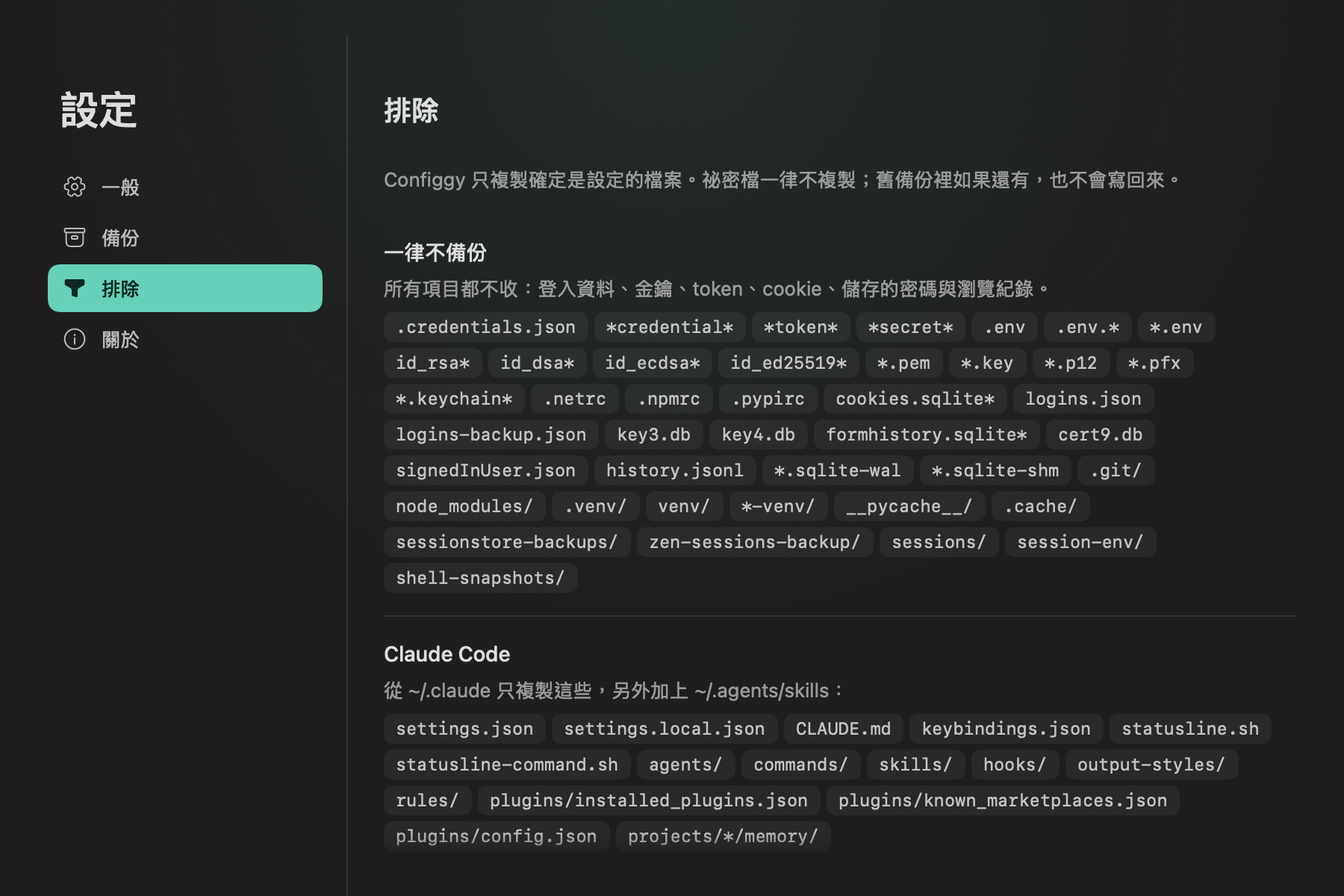
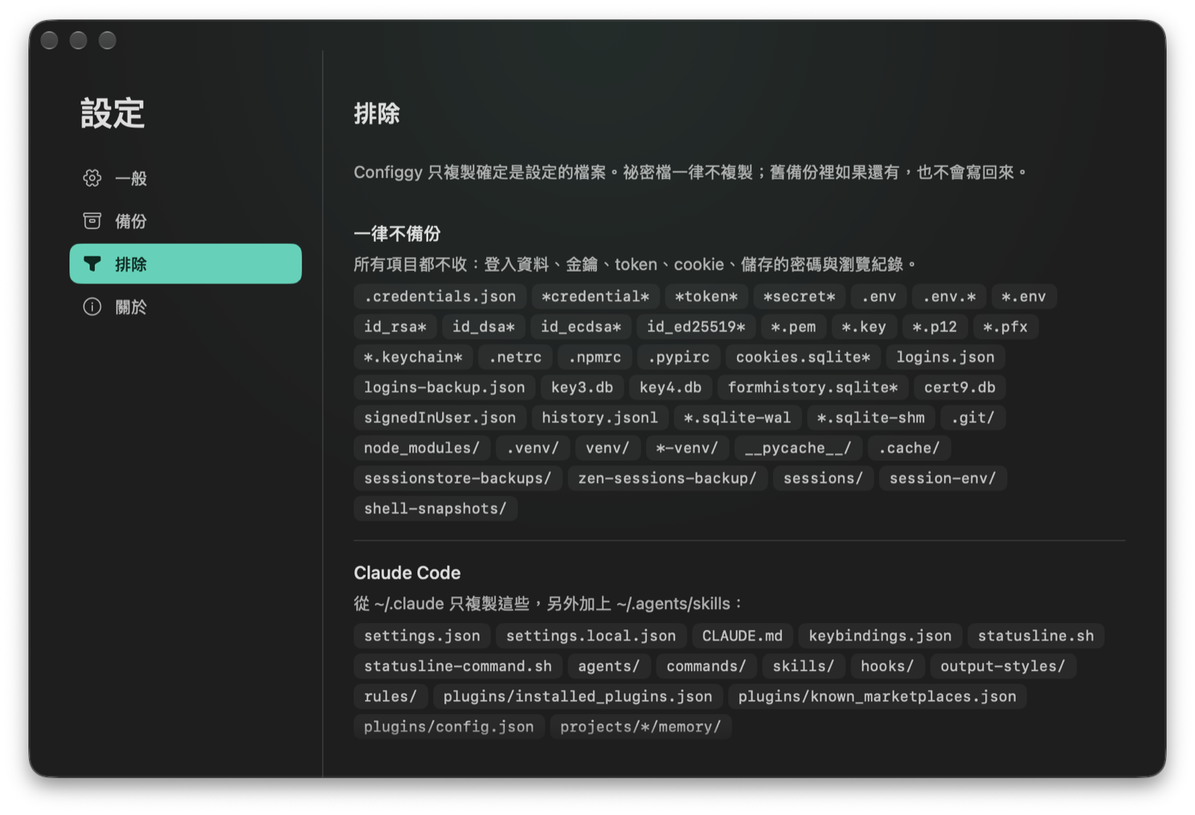
官網與 README 截圖重拍：真實視窗與像真的資料
- 新增 scripts/screenshots.sh：在假家目錄放一組像真的資料，讓 App 真的打開視窗，用 screencapture 連同外框與陰影拍下
- 官網首頁的 CSS 假視窗（舊介面）換成真的主畫面截圖，保留深淺色切換
- 截圖區改為主畫面、還原預覽、排除設定、第一次使用；README 中英文各一套
- 修正官網英文說明裡未跳脫的撇號，它讓整段翻譯腳本失效、切換英文無作用
- 功能區塊與 llms.txt 改寫成 1.0 的內容

Changed region(s): [[0.0, 0.0, 1.0, 1.0], [0.2812, 0.1868, 0.875, 0.2179], [0.2812, 0.0934, 0.3438, 0.1557]]

diff --git a/docs/index.html b/docs/index.html
@@ -194,6 +194,9 @@
   .win.light .row .who small{color:#71747c}
   .win.light .pill{border-color:rgba(0,0,0,.16);color:#4d5058}
   .win.light .pill.rm{color:#8b8e96}
+  .shot-win{background:none;border:0;box-shadow:none;overflow:visible;border-radius:0}
+  .shot-win img{display:block;width:100%;height:auto}
+  .shot-win .l{display:none}.shot-win.light .d{display:none}.shot-win.light .l{display:block}
   .demo-ctrl{display:flex;align-items:center;justify-content:center;gap:16px;margin-top:22px;flex-wrap:wrap}
   .toggle{display:inline-flex;align-items:center;gap:10px;font-weight:600;cursor:pointer;user-select:none;font-size:14px}
   .switch{width:50px;height:28px;border-radius:999px;background:rgba(255,255,255,.16);position:relative;transition:.25s;flex:none}
@@ -314,57 +317,13 @@
 
     <!-- INTERACTIVE DEMO -->
     <div class="demo-stage">
-      <div class="win" id="win">
-        <div class="titlebar"><i></i><i></i><i></i><span class="t">Configgy</span><span class="gear">⚙</span></div>
-        <div class="tabs">
-          <div class="capsule">
-            <button class="on" data-pane="prot" data-i="demo.tab1">已備份保護</button>
-            <button data-pane="sugg" data-i="demo.tab2">建議加入</button>
-          </div>
-        </div>
-        <div class="rows">
-          <div class="pane on" id="pane-prot">
-            <div class="row" data-row>
-              <span class="ico">✳</span>
-              <span class="who"><b>Claude Code</b><small data-i="demo.r1s">最後備份 今天 09:12 · 8 份快照</small></span>
-              <span class="acts">
-                <button class="pill go" data-backup data-i="demo.backup">備份</button>
-                <button class="pill re" data-i="demo.restore">還原</button>
-                <button class="pill rm" data-i="demo.remove">移除</button>
-              </span>
-              <span class="bar"></span>
-            </div>
-            <div class="row" data-row>
-              <span class="ico">🌀</span>
-              <span class="who"><b>Zen Browser</b><small data-i="demo.r2s">關閉 Zen 時自動備份 · 10 份快照</small></span>
-              <span class="acts">
-                <button class="pill go" data-backup data-i="demo.backup">備份</button>
-                <button class="pill re" data-i="demo.restore">還原</button>
-                <button class="pill rm" data-i="demo.remove">移除</button>
-              </span>
-              <span class="bar"></span>
-            </div>
-            <div class="row" data-row>
-              <span class="ico">🐚</span>
-              <span class="who"><b>Shell dotfiles</b><small data-i="demo.r3s">最後備份 昨天 23:40 · 3 份快照</small></span>
-              <span class="acts">
-                <button class="pill go" data-backup data-i="demo.backup">備份</button>
-                <button class="pill re" data-i="demo.restore">還原</button>
-                <button class="pill rm" data-i="demo.remove">移除</button>
-              </span>
-              <span class="bar"></span>
-            </div>
-          </div>
-          <div class="pane" id="pane-sugg">
-            <div class="row"><span class="ico">⌨</span><span class="who"><b>Karabiner-Elements</b><small data-i="demo.g1">改鍵設定 · 沒有自己的雲端同步</small></span><span class="acts"><button class="pill add" data-i="demo.add">加入</button></span></div>
-            <div class="row"><span class="ico">🔧</span><span class="who"><b>git · ~/.gitconfig</b><small data-i="demo.g2">全域 git 設定與 aliases</small></span><span class="acts"><button class="pill add" data-i="demo.add">加入</button></span></div>
-            <div class="row"><span class="ico">🖥</span><span class="who"><b>~/.ssh/config</b><small data-i="demo.g3">只收設定檔，私鑰不碰</small></span><span class="acts"><button class="pill add" data-i="demo.add">加入</button></span></div>
-          </div>
-        </div>
+      <div class="win shot-win" id="win">
+        <img class="d" src="shots/main-dark.png" alt="Configgy 主視窗（深色）：最上面一句話告訴你設定都已備份，下面列出每個項目上次備份的時間" width="1600" height="1481">
+        <img class="l" src="shots/main-light.png" alt="Configgy 主視窗（淺色）" width="1600" height="1481" loading="lazy">
       </div>
       <div class="demo-ctrl">
         <label class="toggle" id="theme"><span class="switch"></span><span data-i="demo.theme">淺色模式</span></label>
-        <span class="demo-hint" data-i="demo.hint">← 撥一下切主題，或點「備份」看流光跑一輪</span>
+        <span class="demo-hint" data-i="demo.hint">← 撥一下看淺色模式</span>
       </div>
     </div>
   </div>
@@ -394,7 +353,7 @@
       <div class="card"><span class="emoji">✳</span><h3 data-i="feat.c2h">Claude Code 設定</h3><p data-i="feat.c2p">快照 <code>~/.claude</code> 與 <code>~/.agents/skills</code>；還原時連 plugins 一起重裝，新機器接得回原本的手感。</p></div>
       <div class="card"><span class="emoji">🔍</span><h3 data-i="feat.c3h">自動探索建議</h3><p data-i="feat.c3p">掃出這台 Mac 上沒有雲端同步的設定：shell、git、<code>~/.ssh/config</code>、Zed、VS Code、終端機、Karabiner、Hammerspoon…點加入就收編。</p></div>
       <div class="card"><span class="emoji">↩</span><h3 data-i="feat.c4h">預覽、回滾、再納入</h3><p data-i="feat.c4p">還原先看 diff；每個目標都有歷史可挑。開啟時掃一遍備份資料夾，另一台 Mac 備過的目標會自己回到清單上。</p></div>
-      <div class="card"><span class="emoji">🎛</span><h3 data-i="feat.c5h">一個視窗就夠</h3><p data-i="feat.c5p">膠囊 tab 切兩份清單，動作就在列上；設定是視窗內的一頁，不是層層選單。淺色深色都是一等公民。</p></div>
+      <div class="card"><span class="emoji">🎛</span><h3 data-i="feat.c5h">一眼看懂</h3><p data-i="feat.c5p">打開就有一句話告訴你設定有沒有備份好、要不要做什麼；每個項目寫出上次備份時間。支援六種語言，淺色深色都清楚。</p></div>
       <div class="card"><span class="emoji">⌨</span><h3 data-i="feat.c6h">同一顆 binary 就是 CLI</h3><p data-i="feat.c6p"><code>Configgy backup</code>、<code>list</code>、<code>restore</code>、<code>target-add</code>…全部跑得動，排程或遠端都行。</p></div>
     </div>
   </div>
@@ -406,19 +365,19 @@
     <h2 data-i="shot.h2">長這樣</h2>
     <div class="shots">
       <div class="shot">
-        <img src="shots/main-dark.png" alt="主視窗：每個項目標示已保護、需要注意或失敗，附上最後備份時間與來源 Mac，右側是備份與還原" loading="lazy" width="1520" height="1200">
+        <img src="shots/main-dark.png" alt="主視窗：最上面一句話說明設定是否都已備份，下面列出每個項目上次備份的時間與可還原的份數" loading="lazy" width="1600" height="1481">
         <p data-i="shot.c1"><b>一眼看出安不安全</b> — 最上面一句話告訴你設定有沒有備份好、要不要做什麼；每個項目寫出上次什麼時候備份、有幾份可以還原。</p>
       </div>
       <div class="shot">
-        <img src="shots/main-light.png" alt="淺色模式下的同一個視窗" loading="lazy" width="1520" height="1200">
-        <p data-i="shot.c4"><b>淺色模式</b> — 同一個視窗的淺色版本，跟著系統外觀切換。</p>
+        <img src="shots/restore-light.png" alt="還原預覽：列出會被取代與新增的每個檔案，確認後才還原" loading="lazy" width="1600" height="1569">
+        <p data-i="shot.c4"><b>還原前先看清楚</b> — 列出每個會被取代或新增的檔案，目前的版本會先另存一份，確認後才寫入。</p>
       </div>
       <div class="shot">
-        <img src="shots/exclusions-dark.png" alt="設定的排除頁：一律不備份的檔案，以及每個項目實際複製的內容" loading="lazy" width="1800" height="1200">
+        <img src="shots/exclusions-dark.png" alt="設定的排除頁：一律不備份的檔案，以及每個項目實際複製的內容" loading="lazy" width="1600" height="1092">
         <p data-i="shot.c2"><b>收什麼、不收什麼</b> — 設定裡列出一律不備份的祕密檔，以及每個項目實際複製的檔案，一目了然。</p>
       </div>
       <div class="shot">
-        <img src="shots/onboarding-dark.png" alt="第一次使用導覽：選備份資料夾、選要保護的項目" loading="lazy" width="1200" height="1120">
+        <img src="shots/onboarding-light.png" alt="第一次使用導覽：選備份資料夾、選要保護的項目" loading="lazy" width="1600" height="1501">
         <p data-i="shot.c3"><b>第一次使用</b> — 選好備份資料夾、勾選要保護的設定，一分鐘內開始。</p>
       </div>
     </div>
@@ -496,7 +455,7 @@ const I18N = {
     "demo.r2s":"關閉 Zen 時自動備份 · 10 份快照",
     "demo.r3s":"最後備份 昨天 23:40 · 3 份快照",
     "demo.g1":"改鍵設定 · 沒有自己的雲端同步","demo.g2":"全域 git 設定與 aliases","demo.g3":"只收設定檔，私鑰不碰",
-    "demo.theme":"淺色模式","demo.hint":"← 撥一下切主題，或點「備份」看流光跑一輪",
+    "demo.theme":"淺色模式","demo.hint":"← 撥一下看淺色模式",
     "how.eyebrow":"運作原理","how.h2":"一個目標，就是一組路徑",
     "how.lead":"Configgy 只有一個模型：把一組路徑存成帶日期的 zip、留著歷史、還原前先給你看 diff。Zen、Claude Code、你自己加的資料夾，走的都是同一條路。",
     "how.s1h":"選好目標","how.s1p":"預設只開 Claude Code。Zen 和其他都是「建議」，你點<b>加入</b>才開始版本化——這台沒裝 Zen 也照常跑。",
@@ -509,13 +468,13 @@ const I18N = {
     "feat.c2h":"Claude Code 設定","feat.c2p":'快照 <code>~/.claude</code> 與 <code>~/.agents/skills</code>；還原時連 plugins 一起重裝，新機器接得回原本的手感。',
     "feat.c3h":"自動探索建議","feat.c3p":'掃出這台 Mac 上沒有雲端同步的設定：shell、git、<code>~/.ssh/config</code>、Zed、VS Code、終端機、Karabiner、Hammerspoon…點加入就收編。',
     "feat.c4h":"預覽、回滾、再納入","feat.c4p":"還原先看 diff；每個目標都有歷史可挑。開啟時掃一遍備份資料夾，另一台 Mac 備過的目標會自己回到清單上。",
-    "feat.c5h":"一個視窗就夠","feat.c5p":"膠囊 tab 切兩份清單，動作就在列上；設定是視窗內的一頁，不是層層選單。淺色深色都是一等公民。",
+    "feat.c5h":"一眼看懂","feat.c5p":"打開就有一句話告訴你設定有沒有備份好、要不要做什麼；每個項目寫出上次備份時間。支援六種語言，淺色深色都清楚。",
     "feat.c6h":"同一顆 binary 就是 CLI","feat.c6p":'<code>Configgy backup</code>、<code>list</code>、<code>restore</code>、<code>target-add</code>…全部跑得動，排程或遠端都行。',
     "shot.eyebrow":"畫面","shot.h2":"長這樣",
     "shot.c1":'<b>一眼看出安不安全</b> — 最上面一句話告訴你設定有沒有備份好、要不要做什麼；每個項目寫出上次什麼時候備份、有幾份可以還原。',
     "shot.c2":'<b>收什麼、不收什麼</b> — 設定裡列出一律不備份的祕密檔，以及每個項目實際複製的檔案，一目了然。',
     "shot.c3":'<b>第一次使用</b> — 選好備份資料夾、勾選要保護的設定，一分鐘內開始。',
-    "shot.c4":'<b>淺色模式</b> — 同一個視窗的淺色版本，跟著系統外觀切換。',
+    "shot.c4":'<b>還原前先看清楚</b> — 列出每個會被取代或新增的檔案，目前的版本會先另存一份，確認後才寫入。',
     "inst.eyebrow":"安裝","inst.h2":"下載 zip，拖進「應用程式」",
     "inst.lead":"跟著四個步驟做，大約一分鐘。第三步會用到「終端機」，不用怕，複製貼上就好。","inst.s1":"按<a href=\"https://github.com/rocavence/Configgy-app/releases/latest\" target=\"_blank\" rel=\"noopener\" style=\"color:var(--ink);text-decoration:underline\">這裡的「下載最新版」</a>，從 GitHub 下載 <b>Configgy</b> 的 <b>.zip</b> 檔。","inst.s2":"到「下載項目」資料夾雙擊 zip 解壓縮，把 <b>Configgy</b> 拖進「應用程式」資料夾。","inst.s3":"打開「終端機」：按 <kbd>⌘</kbd> + <kbd>空白鍵</kbd> 叫出 Spotlight，輸入「<b>終端機</b>」（英文系統輸入 Terminal），按 <kbd>Return</kbd>。","inst.s4":"按下面黑色框右上角的「<b>複製</b>」，回到終端機按 <kbd>⌘</kbd> + <kbd>V</kbd> 貼上，再按 <kbd>Return</kbd>。Configgy 就會打開，之後從「應用程式」直接開就好。","inst.copy":"複製","inst.why":"<b>蛤？這是在幹嘛？</b>Configgy 是免費的自簽 app，沒有經過 Apple 公證。我也不是靠開發 App 維生，純粹是做自己覺得好用、好看的小東西，繳不起 Apple 每年的開發者規費⋯⋯所以 macOS 會擋下第一次開啟。這行指令只是拿掉下載時被加上的「隔離」標記，再幫你打開 Configgy，不會改動其他東西，只需要做一次。",
     "inst.cmt":"清除 quarantine 後直接打開","inst.btn":"下載最新版","inst.src":"自己 build",
@@ -537,7 +496,7 @@ const I18N = {
     "demo.r2s":"Backs up when you quit Zen · 10 snapshots",
     "demo.r3s":"Last backup yesterday 23:40 · 3 snapshots",
     "demo.g1":"Key remapping · no cloud sync of its own","demo.g2":"Global git settings and aliases","demo.g3":"The config file only — never the keys",
-    "demo.theme":"Light mode","demo.hint":"← Flip the theme, or hit Back Up to watch it run",
+    "demo.theme":"Light mode","demo.hint":"← Flip to see light mode",
     "how.eyebrow":"How it works","how.h2":"A target is just a set of paths",
     "how.lead":"Configgy has one model: take a set of paths, version them as dated zips, keep the history, and show you the diff before a restore. Zen, Claude Code, and folders you add all ride the same contract.",
     "how.s1h":"Pick your targets","how.s1p":"Only Claude is on out of the box. Zen and everything else are <b>suggestions</b> you adopt — the app runs fine on a Mac with no Zen at all.",
@@ -550,13 +509,13 @@ const I18N = {
     "feat.c2h":"Claude Code config","feat.c2p":'Snapshots <code>~/.claude</code> and <code>~/.agents/skills</code>; the restore reinstalls plugins, so a new Mac feels like the old one.',
     "feat.c3h":"Discovery suggestions","feat.c3p":'Finds config on this Mac with no cloud sync of its own — shell, git, <code>~/.ssh/config</code>, Zed, VS Code, terminals, Karabiner, Hammerspoon — and offers it up.',
     "feat.c4h":"Preview, roll back, re-adopt","feat.c4p":"Restores show their diff; every target keeps a history. On launch it scans the backup folder, so targets backed up on another Mac reappear ready to restore.",
-    "feat.c5h":"One window is enough","feat.c5p":"A capsule tab switches two lists, actions sit inline on the row, and settings is a page in the window rather than a deep menu. Light and dark are both first-class.",
+    "feat.c5h":"Clear at a glance","feat.c5p":"One sentence at the top says whether your settings are backed up and what to do if not; each item shows when it was last backed up. Six languages, and readable in light and dark.",
     "feat.c6h":"The binary is also the CLI","feat.c6p":'<code>Configgy backup</code>, <code>list</code>, <code>restore</code>, <code>target-add</code> — all headless, ready for cron or SSH.',
     "shot.eyebrow":"Screenshots","shot.h2":"What it looks like",
     "shot.c1":'<b>Safe at a glance</b> — each target says Protected, Needs Attention or Failed, and why; times read like "Today 00:15", with the Mac they came from.',
     "shot.c2":'<b>What goes in, what never does</b> — Settings lists the secret files that are never backed up, and exactly what each target copies.',
-    "shot.c3":'<b>First run</b> — pick the backup folder, tick what to protect, and you're set in a minute.',
-    "shot.c4":'<b>Light mode</b> — the same window in light, following the system appearance.',
+    "shot.c3":'<b>First run</b> — pick the backup folder, tick what to protect, and you\'re set in a minute.',
+    "shot.c4":'<b>See it before you restore</b> — every file that will be replaced or added is listed, and the current versions are saved first.',
     "inst.eyebrow":"Install","inst.h2":"Grab the zip, drag it to Applications",
     "inst.lead":"Four steps, about a minute. Step 3 uses Terminal — don't worry, it's just copy and paste.","inst.s1":"Click <a href=\"https://github.com/rocavence/Configgy-app/releases/latest\" target=\"_blank\" rel=\"noopener\" style=\"color:var(--ink);text-decoration:underline\"><b>Download latest</b></a> and download the <b>.zip</b> file from GitHub.","inst.s2":"Open your Downloads folder, double-click the zip to unzip it, and drag <b>Configgy</b> into the Applications folder.","inst.s3":"Open <b>Terminal</b>: press <kbd>⌘</kbd> + <kbd>Space</kbd> for Spotlight, type <b>Terminal</b>, and press <kbd>Return</kbd>.","inst.s4":"Click <b>Copy</b> at the top right of the black box below, go back to Terminal, press <kbd>⌘</kbd> + <kbd>V</kbd> to paste, then press <kbd>Return</kbd>. Configgy opens; after that, open it from Applications as usual.","inst.copy":"Copy","inst.why":"<b>Wait, what is this?</b> Configgy is a free, self-signed app that isn't notarized by Apple. I don't make apps for a living; I just build small things I find useful and good-looking, and Apple's yearly developer fee isn't in the budget… So macOS blocks the first launch. This line only removes the quarantine flag added when you downloaded it, then opens Configgy. It changes nothing else, and you only need to do it once.",
     "inst.cmt":"clear quarantine, then open","inst.btn":"Download latest","inst.src":"Build from source",

diff --git a/Configgy/App/Screenshots.swift b/Configgy/App/Screenshots.swift
@@ -1,0 +1,152 @@
+#if DEBUG
+import AppKit
+import SwiftUI
+
+/// Website screenshots, driven by `scripts/screenshots.sh`. Builds a believable
+/// fake home (two Macs, everything protected, a real change to preview), opens
+/// each window for real, and asks the script — which has Screen Recording
+/// access — to capture it with its frame and shadow. Nothing real is touched.
+@MainActor
+enum Screenshots {
+    private static let fm = FileManager.default
+    private static var root: String { ProcessInfo.processInfo.environment["CONFIGGY_HOME"]! }
+    private static var home: String { root + "/home" }
+    private static var cloud: String { home + "/Dropbox/Apps/Configgy" }
+    private static var requests: String { ProcessInfo.processInfo.environment["CONFIGGY_SHOTS"]! }
+    private static let host = "MacBook-Pro"
+    private static var context: Context { Context(home: home, base: cloud, host: host) }
+
+    static func run() {
+        Task {
+            do {
+                try makeHome()
+                let model = AppModel(context: context)
+                model.refresh()
+                try await Task.sleep(for: .seconds(1))
+
+                let main = MainWindow(model: model)
+                main.nsWindow.appearance = NSAppearance(named: .darkAqua)
+                main.nsWindow.setContentSize(NSSize(width: 760, height: 700))
+                main.show(activate: true)
+                try await capture(main.nsWindow, "main-dark")
+                main.nsWindow.appearance = NSAppearance(named: .aqua)
+                try await capture(main.nsWindow, "main-light")
+                main.close()
+
+                let claude = ClaudeTarget(context: context, base: cloud, keep: 10)
+                let restore = panel(RestoreSheet(model: model, target: claude, initial: claude.store.newest()) {}, light: true)
+                try await Task.sleep(for: .seconds(2))
+                try await capture(restore, "restore-light")
+                restore.close()
+
+                let onboarding = OnboardingWindow(model: model)
+                onboarding.show(activate: true)
+                onboarding.nsWindow?.appearance = NSAppearance(named: .aqua)
+                if let window = onboarding.nsWindow { try await capture(window, "onboarding-light") }
+                onboarding.close()
+
+                let settings = SettingsWindow(model: model)
+                settings.nsWindow.appearance = NSAppearance(named: .darkAqua)
+                settings.show(.exclusions, activate: true)
+                try await capture(settings.nsWindow, "exclusions-dark")
+                settings.close()
+                print("SCREENSHOTS OK")
+            } catch {
+                print("SCREENSHOTS FAILED \(error.localizedDescription)")
+            }
+            exit(0)
+        }
+    }
+
+    /// A sheet's content in a plain window, so it can be shot on its own.
+    private static func panel<V: View>(_ view: V, light: Bool) -> NSWindow {
+        let window = NSWindow(contentRect: .zero, styleMask: [.titled, .closable, .fullSizeContentView], backing: .buffered, defer: false)
+        window.titleVisibility = .hidden
+        window.titlebarAppearsTransparent = true
+        window.isReleasedWhenClosed = false
+        window.appearance = NSAppearance(named: light ? .aqua : .darkAqua)
+        window.contentView = NSHostingView(rootView: view.padding(.top, Spacing.s16).background(Palette.background))
+        window.setContentSize(window.contentView!.fittingSize)
+        window.center()
+        window.makeKeyAndOrderFront(nil)
+        NSApp.activate()
+        return window
+    }
+
+    /// Asks the script to capture `window`, then waits for the file.
+    private static func capture(_ window: NSWindow, _ name: String) async throws {
+        window.center()
+        window.makeKeyAndOrderFront(nil)
+        NSApp.activate()
+        try await Task.sleep(for: .milliseconds(1200))
+        fm.createFile(atPath: requests + "/\(name).request", contents: Data("\(window.windowNumber)".utf8))
+        for _ in 0..<100 {
+            if fm.fileExists(atPath: requests + "/\(name).png") { return }
+            try await Task.sleep(for: .milliseconds(100))
+        }
+        print("no capture for \(name)")
+    }
+
+    private static func makeHome() throws {
+        try? fm.removeItem(atPath: root)
+        let claude = home + "/.claude"
+        let files: [String: String] = [
+            claude + "/settings.json": "{\"theme\":\"dark\",\"model\":\"opus\"}",
+            claude + "/CLAUDE.md": "# Working notes",
+            claude + "/agents/reviewer.md": "reviewer",
+            claude + "/commands/ship.md": "ship",
+            claude + "/skills/release/SKILL.md": "release",
+            claude + "/skills/review/SKILL.md": "review",
+            claude + "/hooks/format.sh": "format",
+            claude + "/agents/planner.md": "planner",
+            claude + "/projects/site/memory/notes.md": "memory",
+            home + "/.zshrc": "export EDITOR=zed",
+            home + "/.gitconfig": "[user]\n\tname = Roca",
+            home + "/Library/Application Support/zen/installs.ini": "[Install]\nDefault=Profiles/abc.default\n",
+            home + "/Library/Application Support/zen/Profiles/abc.default/prefs.js": "user_pref(\"a\", 1);",
+        ]
+        for (path, text) in files {
+            try fm.createDirectory(atPath: (path as NSString).deletingLastPathComponent, withIntermediateDirectories: true)
+            fm.createFile(atPath: path, contents: Data(text.utf8))
+        }
+        var settings = ConfiggySettings()
+        settings.backupBase = cloud
+        settings.zenEnabled = true
+        settings.onboarded = true
+        settings.save(home)
+        TargetCatalog.save([
+            TargetCatalog.suggestions.first { $0.def.id == "shell" }!.def,
+            TargetCatalog.suggestions.first { $0.def.id == "git" }!.def,
+        ], home: home)
+
+        // Older history from both Macs, then a real Claude backup, then a change to preview.
+        let now = Date()
+        func seed(_ dir: String, _ prefix: String, _ host: String, _ days: [Double], files: Int) {
+            try? fm.createDirectory(atPath: dir, withIntermediateDirectories: true)
+            for d in days {
+                let date = now.addingTimeInterval(-d * 86_400)
+                let ts = SnapshotStore.stamp(date)
+                let path = dir + "/\(prefix)\(host)-\(ts).zip"
+                fm.createFile(atPath: path, contents: Data())
+                let meta = SnapshotMeta(host: host, ts: ts, iso: ISO8601DateFormatter().string(from: date), hash: UUID().uuidString, files: files)
+                try? JSONEncoder().encode(meta).write(to: URL(fileURLWithPath: path + ".json"))
+            }
+        }
+        seed(cloud + "/claude", "configgy-claude-", host, [2.2, 5, 9], files: 46)
+        seed(cloud + "/claude", "configgy-claude-", "Mac-mini", [3.5, 12], files: 44)
+        seed(cloud + "/zen", "configgy-zen-", host, [0.3, 1.4, 2.6, 4, 7], files: 312)
+        seed(cloud + "/zen", "configgy-zen-", "Mac-mini", [1.9, 6], files: 305)
+        seed(cloud + "/targets/shell", "configgy-shell-", host, [0.8, 6], files: 3)
+        seed(cloud + "/targets/git", "configgy-git-", host, [0.8, 15], files: 2)
+        _ = try BackupService.backup(ClaudeTarget(context: context, base: cloud, keep: 10), context: context)
+        try Data("{\"theme\":\"light\",\"model\":\"sonnet\"}".utf8).write(to: URL(fileURLWithPath: claude + "/settings.json"))
+        try Data("# Working notes (edited)".utf8).write(to: URL(fileURLWithPath: claude + "/CLAUDE.md"))
+        try? fm.removeItem(atPath: claude + "/commands/ship.md")
+        try? fm.removeItem(atPath: claude + "/skills/review/SKILL.md")
+        try Data("reviewer, stricter".utf8).write(to: URL(fileURLWithPath: claude + "/agents/reviewer.md"))
+        try Data("release v2".utf8).write(to: URL(fileURLWithPath: claude + "/skills/release/SKILL.md"))
+        try Data("memory, updated".utf8).write(to: URL(fileURLWithPath: claude + "/projects/site/memory/notes.md"))
+        try Data("format --fix".utf8).write(to: URL(fileURLWithPath: claude + "/hooks/format.sh"))
+    }
+}
+#endif

diff --git a/Configgy/App/AppDelegate.swift b/Configgy/App/AppDelegate.swift
@@ -16,7 +16,7 @@ final class AppDelegate: NSObject, NSApplicationDelegate {
 
         #if DEBUG
         if let item = ProcessInfo.processInfo.environment["CONFIGGY_SELFTEST"] {
-            SelfTest.run(item)
+            if item == "screenshots" { Screenshots.run() } else { SelfTest.run(item) }
             return
         }
         #endif

diff --git a/Configgy/Settings/SettingsView.swift b/Configgy/Settings/SettingsView.swift
@@ -73,6 +73,7 @@ final class SettingsWindow: NSObject, NSWindowDelegate {
 
     func close() { window.close() }
     func snapshot() -> NSBitmapImageRep? { window.contentView?.snapshot() }
+    var nsWindow: NSWindow { window }
 }
 
 /// Flione's settings card: 900 × 600, 32 all round, a 184-wide column of

diff --git a/Configgy/Window/MainWindow.swift b/Configgy/Window/MainWindow.swift
@@ -47,6 +47,7 @@ final class MainWindow: NSObject, NSWindowDelegate {
 
     func snapshot() -> NSBitmapImageRep? { window.contentView?.snapshot() }
     func close() { window.close() }
+    var nsWindow: NSWindow { window }
 }
 
 struct MainView: View {

diff --git a/Configgy/Onboarding/OnboardingWindow.swift b/Configgy/Onboarding/OnboardingWindow.swift
@@ -215,4 +215,5 @@ final class OnboardingWindow: NSObject, NSWindowDelegate {
 
     func close() { window?.close() }
     func snapshot() -> NSBitmapImageRep? { window?.contentView?.snapshot() }
+    var nsWindow: NSWindow? { window }
 }

diff --git a/README.md b/README.md
@@ -12,7 +12,7 @@
 <p align="center"><a href="https://configgy.rocavence.com">configgy.rocavence.com</a> · <b>English</b> · <a href="README.zh-Hant.md">繁體中文</a></p>
 
 <p align="center">
-  <img src="docs/readme-shots/en-dark-main.png" width="720" alt="The Configgy window: each target shows Protected, Needs Attention or Failed, with Back Up and Restore">
+  <img src="docs/readme-shots/en-main-dark.png" width="720" alt="The Configgy window: each target shows Protected, Needs Attention or Failed, with Back Up and Restore">
 </p>
 
 ## Install
@@ -47,8 +47,8 @@ Each backup is a dated zip named after the Mac it came from. Configgy keeps 10 p
 
 <table>
   <tr>
-    <td width="50%"><img src="docs/readme-shots/en-light-settings-exclusions.png" alt="Settings › Exclusions: what's never backed up, and exactly what each target copies"></td>
-    <td width="50%"><img src="docs/readme-shots/en-dark-onboarding.png" alt="The first-run guide: backup folder, what to protect, and what's never backed up"></td>
+    <td width="50%"><img src="docs/readme-shots/en-exclusions-dark.png" alt="Settings › Exclusions: what's never backed up, and exactly what each target copies"></td>
+    <td width="50%"><img src="docs/readme-shots/en-restore-light.png" alt="Restore preview: every file that will be replaced or added, before anything is written"></td>
   </tr>
 </table>
 

diff --git a/README.zh-Hant.md b/README.zh-Hant.md
@@ -12,7 +12,7 @@
 <p align="center"><a href="https://configgy.rocavence.com">configgy.rocavence.com</a> · <a href="README.md">English</a> · <b>繁體中文</b></p>
 
 <p align="center">
-  <img src="docs/readme-shots/zh-Hant-dark-main.png" width="720" alt="Configgy 主視窗：每個項目標示已保護、需要注意或失敗，並有備份與還原按鈕">
+  <img src="docs/readme-shots/zh-Hant-main-dark.png" width="720" alt="Configgy 主視窗：每個項目標示已保護、需要注意或失敗，並有備份與還原按鈕">
 </p>
 
 ## 安裝
@@ -47,8 +47,8 @@ brew install --cask rocavence/tap/configgy
 
 <table>
   <tr>
-    <td width="50%"><img src="docs/readme-shots/zh-Hant-dark-settings-exclusions.png" alt="設定 › 排除：一律不備份的檔案，以及每個項目實際複製的內容"></td>
-    <td width="50%"><img src="docs/readme-shots/zh-Hant-dark-onboarding.png" alt="第一次使用導覽：備份資料夾、要保護的項目、一律不備份的內容"></td>
+    <td width="50%"><img src="docs/readme-shots/zh-Hant-exclusions-dark.png" alt="設定 › 排除：一律不備份的檔案，以及每個項目實際複製的內容"></td>
+    <td width="50%"><img src="docs/readme-shots/zh-Hant-restore-light.png" alt="還原預覽：寫入前列出每個會被取代或新增的檔案"></td>
   </tr>
 </table>
 
